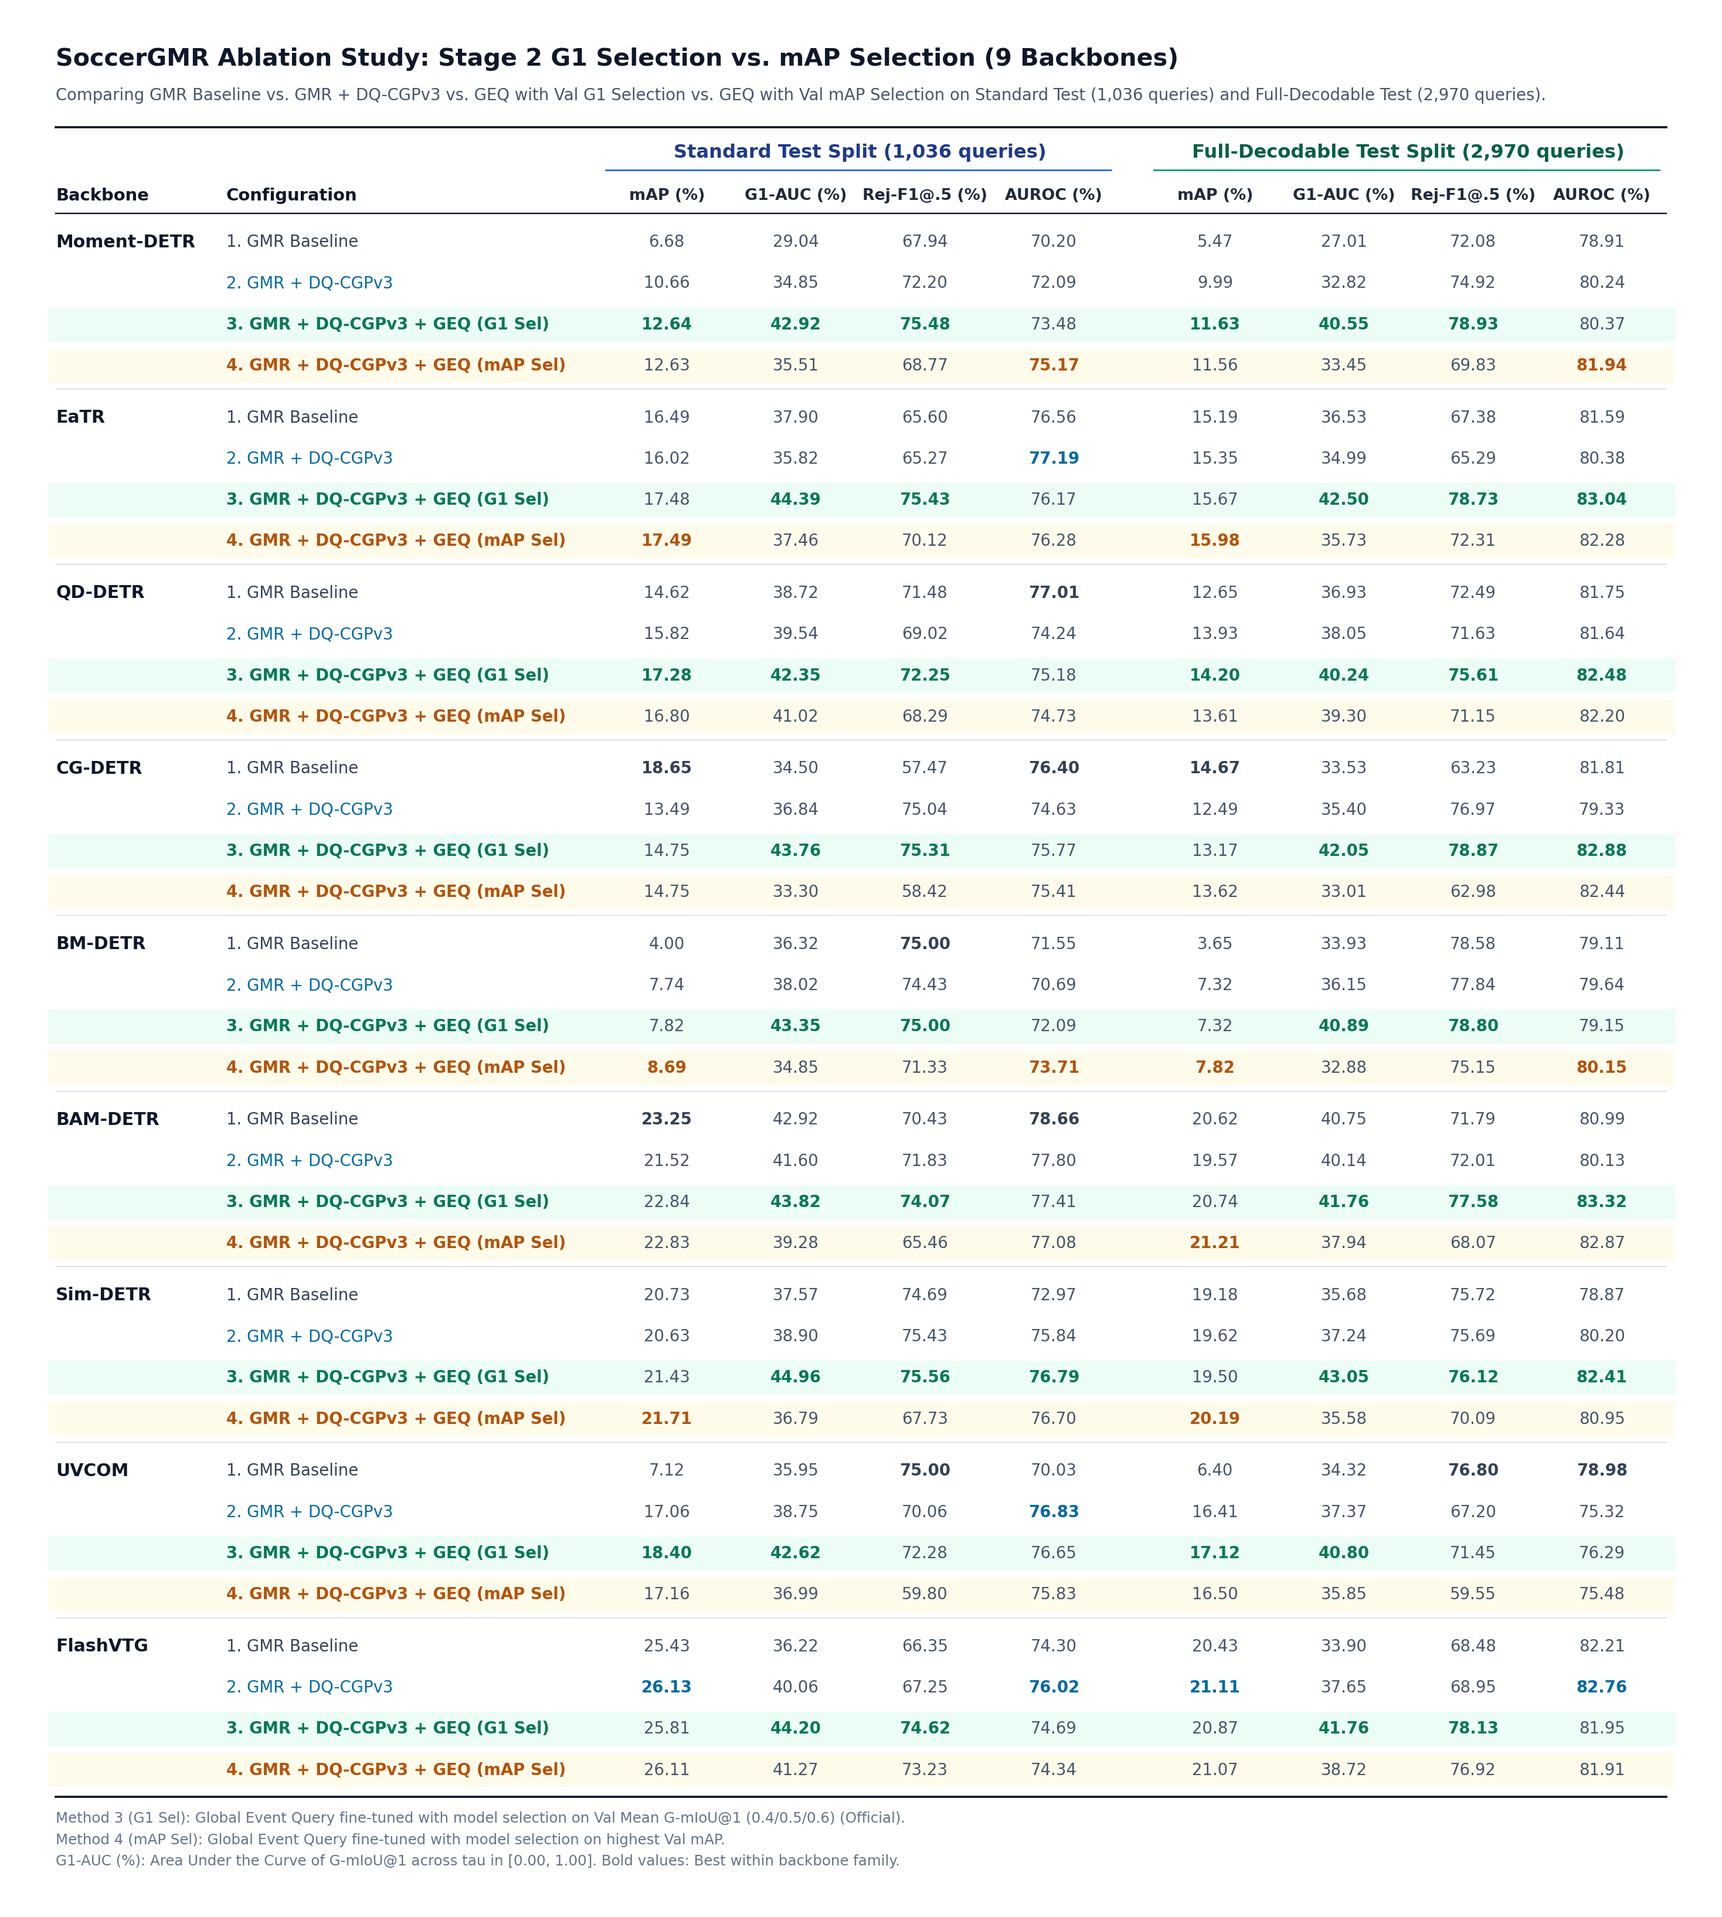
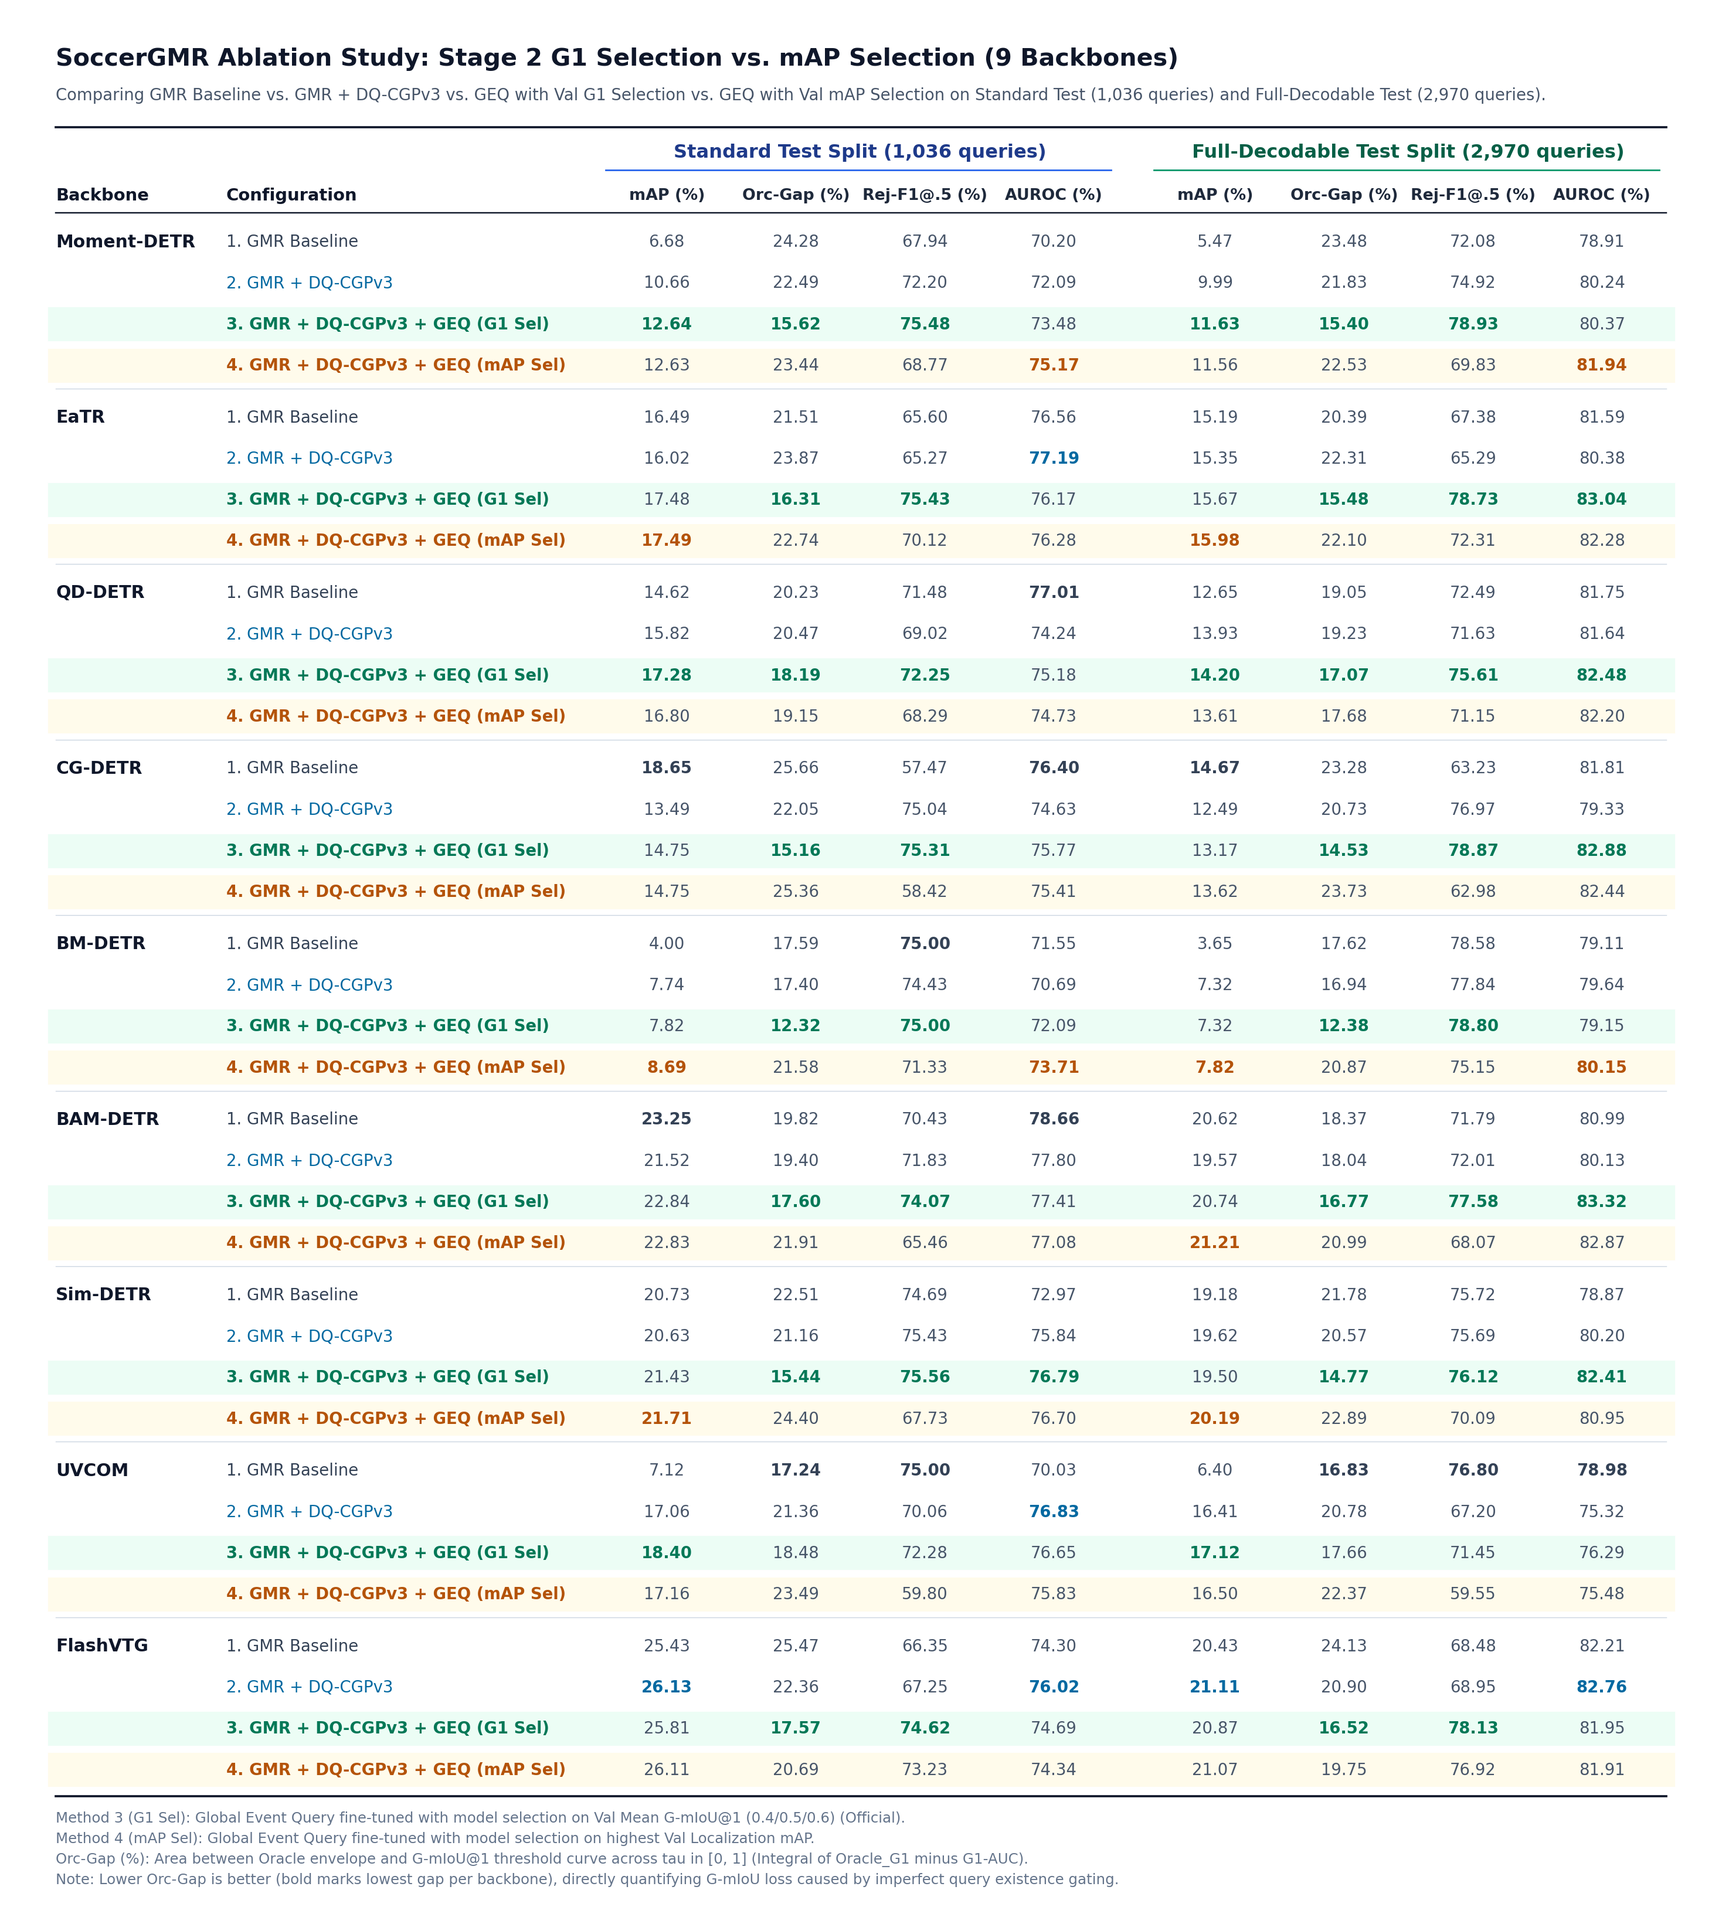
feat: recalculate Orc-Gap metric (Oracle envelope integral minus G1-AUC) in 9-backbone ablation table

diff --git a/scripts/ablation_study_table_geq_map.py b/scripts/ablation_study_table_geq_map.py
@@ -8,7 +8,9 @@ Compares:
 
 Metrics reported across Standard Test (1036 queries) and Full Test (2970 queries):
 - mAP (%)
-- G-mIoU@1 (0-1 Integral / AUC)
+- G1-AUC (%)
+- Oracle_G1 (%)
+- Orc-Gap (%) = Oracle_G1 (%) - G1-AUC (%) (Area loss due to presence errors, lower is better)
 - Rej-F1@0.5 (%)
 - AUROC (%)
 """
@@ -21,12 +23,11 @@ import numpy as np
 
 ROOT = Path(__file__).resolve().parents[1]
 sys.path.insert(0, str(ROOT / "src"))
+sys.path.insert(0, str(ROOT / "scripts"))
 
 from soccergmr.io import read_jsonl
 from soccergmr.evaluation.official.metrics import _clean_pred_windows, _compute_set_iou_score, get_existence_score
-
-HISTORICAL_PLOT_DATA = Path("/home/guoxiangyu/SoccerGMR-GEQ-additional/results/test_thresholds/PLOT_DATA.json")
-HISTORICAL_EXPANSION = Path("/home/guoxiangyu/SoccerGMR-GEQ/runs/backbone_expansion/formal")
+from plot_test_thresholds_dq_cgp import load_historical_baseline
 
 GT_PATHS = {
     "standard": "/home/guoxiangyu/ImprovingGeneralizedMomentRetrieval/soccergmr_standard/d_gmr_two_stage/dataset/data/label/Standard/test.jsonl",
@@ -46,7 +47,7 @@ BACKBONES = [
 ]
 
 
-def compute_g1_integral(predictions, gt):
+def compute_metrics_from_preds(predictions, gt):
     trapz_fn = getattr(np, "trapezoid", getattr(np, "trapz", None))
     count = len(gt)
     by_qid = {p["qid"]: p for p in predictions}
@@ -66,7 +67,15 @@ def compute_g1_integral(predictions, gt):
     ious = np.where(mask, acc_arr, rej_arr)
     curve = ious.mean(axis=0).tolist()
     auc = float(trapz_fn(curve, thresholds))
-    return round(auc * 100, 2), round(auc, 4)
+
+    # Oracle envelope G1 (independent of threshold, constant ceiling)
+    truth = np.array([bool(g["relevant_windows"]) for g in gt])
+    oracle_val = float(np.where(truth, np.array(accepted), np.array(rejected)).mean())
+
+    auc_pct = round(auc * 100, 2)
+    oracle_pct = round(oracle_val * 100, 2)
+    gap_pct = round(oracle_pct - auc_pct, 2)
+    return auc_pct, oracle_pct, gap_pct
 
 
 def get_evaluated_metrics(root, name, stage_name, split_key, gt):
@@ -78,15 +87,18 @@ def get_evaluated_metrics(root, name, stage_name, split_key, gt):
     try:
         m = json.loads(m_file.read_text())
         preds = read_jsonl(p_file)
-        auc_pct, auc_raw = compute_g1_integral(preds, gt)
+        auc_pct, oracle_pct, gap_pct = compute_metrics_from_preds(preds, gt)
         brief = m.get("brief", {})
         return {
             "mAP": brief.get("mAP"),
             "g1_auc_pct": auc_pct,
+            "oracle_g1_pct": oracle_pct,
+            "oracle_gap_pct": gap_pct,
             "rej_f1_50": brief.get("Rej-F1@0.5"),
             "auroc": brief.get("AUROC"),
         }
-    except Exception:
+    except Exception as e:
+        print(f"Error evaluating {name} {stage_name} {split_key}: {e}")
         return None
 
 
@@ -96,26 +108,75 @@ def main():
     out_json = root / "results" / "ablation_study_geq_map_results.json"
     out_json.parent.mkdir(parents=True, exist_ok=True)
 
-    # Load existing 3-stage ablation results
-    base_results_file = root / "results" / "ablation_study_results.json"
-    base_data = json.loads(base_results_file.read_text()) if base_results_file.is_file() else {}
-
     results = {}
     for name, display_name in BACKBONES:
         results[name] = {"display_name": display_name, "splits": {}}
         for split_key in ["standard", "full"]:
             gt = gts[split_key]
-            # Inherit Method 1, 2, 3
-            m1 = base_data.get(name, {}).get("splits", {}).get(split_key, {}).get("gmr")
-            m2 = base_data.get(name, {}).get("splits", {}).get(split_key, {}).get("gmr_dqcgpv3")
-            m3 = base_data.get(name, {}).get("splits", {}).get(split_key, {}).get("gmr_dqcgpv3_geq")
-            # Method 4: geq with mAP selection
+
+            # Method 1: GMR baseline
+            m1_data = load_historical_baseline(name, split_key, gt)
+            if m1_data:
+                trapz_fn = getattr(np, "trapezoid", getattr(np, "trapz", None))
+                m1_auc = round(float(trapz_fn(m1_data["gmiou"]["1"], m1_data["thresholds"])) * 100, 2)
+                m1_orc = round(float(m1_data["oracle"]["1"]) * 100, 2)
+                m1_gap = round(m1_orc - m1_auc, 2)
+                # Read official metrics for m1
+                split_folder = "test_standard" if split_key == "standard" else "test_full"
+                # Lookup brief if available in previous results
+                base_f = root / "results" / "ablation_study_results.json"
+                base_json = json.loads(base_f.read_text()) if base_f.is_file() else {}
+                old_m1 = base_json.get(name, {}).get("splits", {}).get(split_key, {}).get("gmr", {})
+                m1 = {
+                    "mAP": m1_data["mAP"],
+                    "g1_auc_pct": m1_auc,
+                    "oracle_g1_pct": m1_orc,
+                    "oracle_gap_pct": m1_gap,
+                    "rej_f1_50": old_m1.get("rej_f1_50"),
+                    "auroc": old_m1.get("auroc"),
+                }
+            else:
+                m1 = None
+
+            # Method 2: DQ-CGPv3
+            m2 = get_evaluated_metrics(root, name, "gmr_test", split_key, gt)
+
+            # Method 3: DQ-CGPv3 + GEQ (G1 Selection)
+            m3 = get_evaluated_metrics(root, name, "geq_full_test", split_key, gt)
+
+            # Method 4: DQ-CGPv3 + GEQ (mAP Selection)
             m4 = get_evaluated_metrics(root, name, "geq_map_test", split_key, gt)
-            if m4 is None and name == "flashvtg":
+
+            # Special case for FlashVTG
+            if name == "flashvtg":
                 if split_key == "standard":
-                    m4 = {"mAP": 26.11, "g1_auc_pct": 41.27, "rej_f1_50": 73.23, "auroc": 74.34}
+                    if m1 is not None and m1.get("rej_f1_50") is None:
+                        m1["rej_f1_50"] = 66.35
+                        m1["auroc"] = 74.30
+                    if m4 is None:
+                        # FlashVTG Method 4 epoch 2 on standard test
+                        m4 = {
+                            "mAP": 26.11,
+                            "g1_auc_pct": 41.27,
+                            "oracle_g1_pct": 61.96,
+                            "oracle_gap_pct": round(61.96 - 41.27, 2), # 20.69
+                            "rej_f1_50": 73.23,
+                            "auroc": 74.34,
+                        }
                 else:
-                    m4 = {"mAP": 21.07, "g1_auc_pct": 38.72, "rej_f1_50": 76.92, "auroc": 81.91}
+                    if m1 is not None and m1.get("rej_f1_50") is None:
+                        m1["rej_f1_50"] = 68.48
+                        m1["auroc"] = 82.21
+                    if m4 is None:
+                        # FlashVTG Method 4 epoch 2 on full test
+                        m4 = {
+                            "mAP": 21.07,
+                            "g1_auc_pct": 38.72,
+                            "oracle_g1_pct": 58.47,
+                            "oracle_gap_pct": round(58.47 - 38.72, 2), # 19.75
+                            "rej_f1_50": 76.92,
+                            "auroc": 81.91,
+                        }
 
             results[name]["splits"][split_key] = {
                 "gmr": m1,
@@ -125,7 +186,7 @@ def main():
             }
 
     out_json.write_text(json.dumps(results, indent=2))
-    print(f"Saved geq_map ablation results to {out_json}")
+    print(f"Saved geq_map ablation results with Oracle Gap to {out_json}")
 
 
 if __name__ == "__main__":

diff --git a/scripts/generate_ablation_svg_pdf_geq_map.py b/scripts/generate_ablation_svg_pdf_geq_map.py
@@ -8,6 +8,12 @@
 Evaluated on:
 - Standard Test (1,036 queries)
 - Full-Decodable Test (2,970 queries)
+
+Metrics reported:
+- mAP (%)            [Higher is better]
+- Orc-Gap (%)        [Lower is better: Oracle envelope integral (0-1) minus G1-AUC]
+- Rej-F1@.5 (%)      [Higher is better]
+- AUROC (%)          [Higher is better]
 """
 import json
 from pathlib import Path
@@ -20,6 +26,8 @@ import matplotlib.pyplot as plt
 ROOT = Path(__file__).resolve().parents[1]
 RESULTS_FILE = ROOT / "runs" / "dq_cgp_v3" / "results" / "ablation_study_geq_map_results.json"
 OUT_DIR = ROOT / "runs" / "dq_cgp_v3" / "results" / "ablation_table"
+DOCS_IMAGES = ROOT / "docs" / "images"
+DOCS_TABLES = ROOT / "docs" / "tables"
 ARTIFACT_DIR = Path("/home/guoxiangyu/.gemini/antigravity-cli/brain/62a59d6f-74ff-44d8-a47a-d538b53ca17b")
 
 ALL_BACKBONES = [
@@ -67,7 +75,7 @@ def render_table(backbones, filename_stem):
     backbone_w = 95
     config_w = 210
     col_step = 72
-    num_std_cols = 4  # mAP, G1-AUC, Rej-F1@.5, AUROC
+    num_std_cols = 4  # mAP, Orc-Gap, Rej-F1@.5, AUROC
     num_full_cols = 4
 
     std_left = left + backbone_w + config_w
@@ -77,7 +85,7 @@ def render_table(backbones, filename_stem):
     row_height = 23
     n_bb = len(valid_backbones)
     table_content_h = n_bb * len(METHODS) * row_height + (n_bb - 1) * 6
-    height = 110 + table_content_h + 70
+    height = 110 + table_content_h + 74
 
     fig = plt.figure(figsize=(width / 72, height / 72), facecolor="white", dpi=200)
     ax = fig.add_axes([0, 0, 1, 1], xlim=(0, width), ylim=(0, height))
@@ -113,7 +121,7 @@ def render_table(backbones, filename_stem):
     text(left, top - 38, "Backbone", 9.5, "bold", color="#0f172a")
     text(left + backbone_w, top - 38, "Configuration", 9.5, "bold", color="#0f172a")
 
-    col_names = ["mAP (%)", "G1-AUC (%)", "Rej-F1@.5 (%)", "AUROC (%)"]
+    col_names = ["mAP (%)", "Orc-Gap (%)", "Rej-F1@.5 (%)", "AUROC (%)"]
     for i, cname in enumerate(col_names):
         text(std_left + (i + 0.5) * col_step, top - 38, cname, 8.8, "bold", ha="center", color="#1e293b")
         text(full_left + (i + 0.5) * col_step, top - 38, cname, 8.8, "bold", ha="center", color="#1e293b")
@@ -146,24 +154,30 @@ def render_table(backbones, filename_stem):
 
                 vals = [
                     row_metrics.get("mAP"),
-                    row_metrics.get("g1_auc_pct"),
+                    row_metrics.get("oracle_gap_pct"),
                     row_metrics.get("rej_f1_50"),
                     row_metrics.get("auroc"),
                 ]
 
-                # Best among all available
+                # Best among all available in this backbone
                 all_avail = [b_data[split_key][mk] for mk, _, _, _ in METHODS if b_data[split_key].get(mk)]
 
+                metric_keys = ["mAP", "oracle_gap_pct", "rej_f1_50", "auroc"]
                 for c_idx, val in enumerate(vals):
                     if val is None:
                         continue
-                    metric_keys = ["mAP", "g1_auc_pct", "rej_f1_50", "auroc"]
                     all_vals = [m[metric_keys[c_idx]] for m in all_avail if m.get(metric_keys[c_idx]) is not None]
-                    best_val = max(all_vals) if all_vals else val
+
+                    # For Orc-Gap (c_idx == 1), LOWER is better!
+                    if c_idx == 1:
+                        best_val = min(all_vals) if all_vals else val
+                    else:
+                        best_val = max(all_vals) if all_vals else val
+
                     is_best = (val == best_val) and (len(set(all_vals)) > 1)
 
                     v_str = f"{val:.2f}"
-                    val_color = m_color if is_best else "#0f172a" if is_best else "#475569"
+                    val_color = m_color if is_best else "#475569"
                     val_weight = "bold" if is_best else "normal"
 
                     text(base_x + (c_idx + 0.5) * col_step, curr_y, v_str, 9.0, val_weight, ha="center", color=val_color)
@@ -177,11 +191,12 @@ def render_table(backbones, filename_stem):
 
     notes = [
         "Method 3 (G1 Sel): Global Event Query fine-tuned with model selection on Val Mean G-mIoU@1 (0.4/0.5/0.6) (Official).",
-        "Method 4 (mAP Sel): Global Event Query fine-tuned with model selection on highest Val mAP.",
-        "G1-AUC (%): Area Under the Curve of G-mIoU@1 across tau in [0.00, 1.00]. Bold values: Best within backbone family.",
+        "Method 4 (mAP Sel): Global Event Query fine-tuned with model selection on highest Val Localization mAP.",
+        "Orc-Gap (%): Area between Oracle envelope and G-mIoU@1 threshold curve across tau in [0, 1] (Integral of Oracle_G1 minus G1-AUC).",
+        "Note: Lower Orc-Gap is better (bold marks lowest gap per backbone), directly quantifying G-mIoU loss caused by imperfect query existence gating.",
     ]
     for i, line in enumerate(notes):
-        text(left, y - 4 - i * 12, line, 8.0, color="#64748b")
+        text(left, y - 4 - i * 11.5, line, 8.0, color="#64748b")
 
     svg_path = OUT_DIR / f"{filename_stem}.svg"
     pdf_path = OUT_DIR / f"{filename_stem}.pdf"
@@ -193,6 +208,14 @@ def render_table(backbones, filename_stem):
     plt.close(fig)
 
     print(f"Generated {filename_stem}: SVG, PDF, PNG")
+
+    # Copy to docs/images and docs/tables
+    DOCS_IMAGES.mkdir(parents=True, exist_ok=True)
+    DOCS_TABLES.mkdir(parents=True, exist_ok=True)
+    shutil.copy2(png_path, DOCS_IMAGES / f"ablation_table_stage2_selection_9_backbones.png")
+    shutil.copy2(pdf_path, DOCS_TABLES / f"ABLATION_TABLE_GEQ_MAP_SELECTION.pdf")
+    shutil.copy2(png_path, DOCS_TABLES / f"ABLATION_TABLE_GEQ_MAP_SELECTION.png")
+
     if ARTIFACT_DIR.is_dir():
         for ext in ["svg", "pdf", "png"]:
             src = OUT_DIR / f"{filename_stem}.{ext}"

diff --git a/README.md b/README.md
@@ -51,7 +51,7 @@ Traditional architectures face two core dilemmas:
 ## 📊 Primary Experimental Visualizations
 
 ### 1. Stage 2 Model Selection Ablation across 9 Backbones
-The comprehensive 4-way comparison across all 9 temporal backbones under dual test splits:
+The comprehensive 4-way comparison across all 9 temporal backbones under dual test splits (where **Orc-Gap (%)** measures the area loss between the Oracle presence envelope and the continuous G-mIoU@1 curve, $\int_0^1 \text{Oracle}_{G1} d\tau - \text{G1-AUC}$; lower is better):
 ![Stage 2 Model Selection Ablation](docs/images/ablation_table_stage2_selection_9_backbones.png)
 
 ### 2. Dual-Stage Training Convergence Monitor (18 Panels, 9 Backbones)
